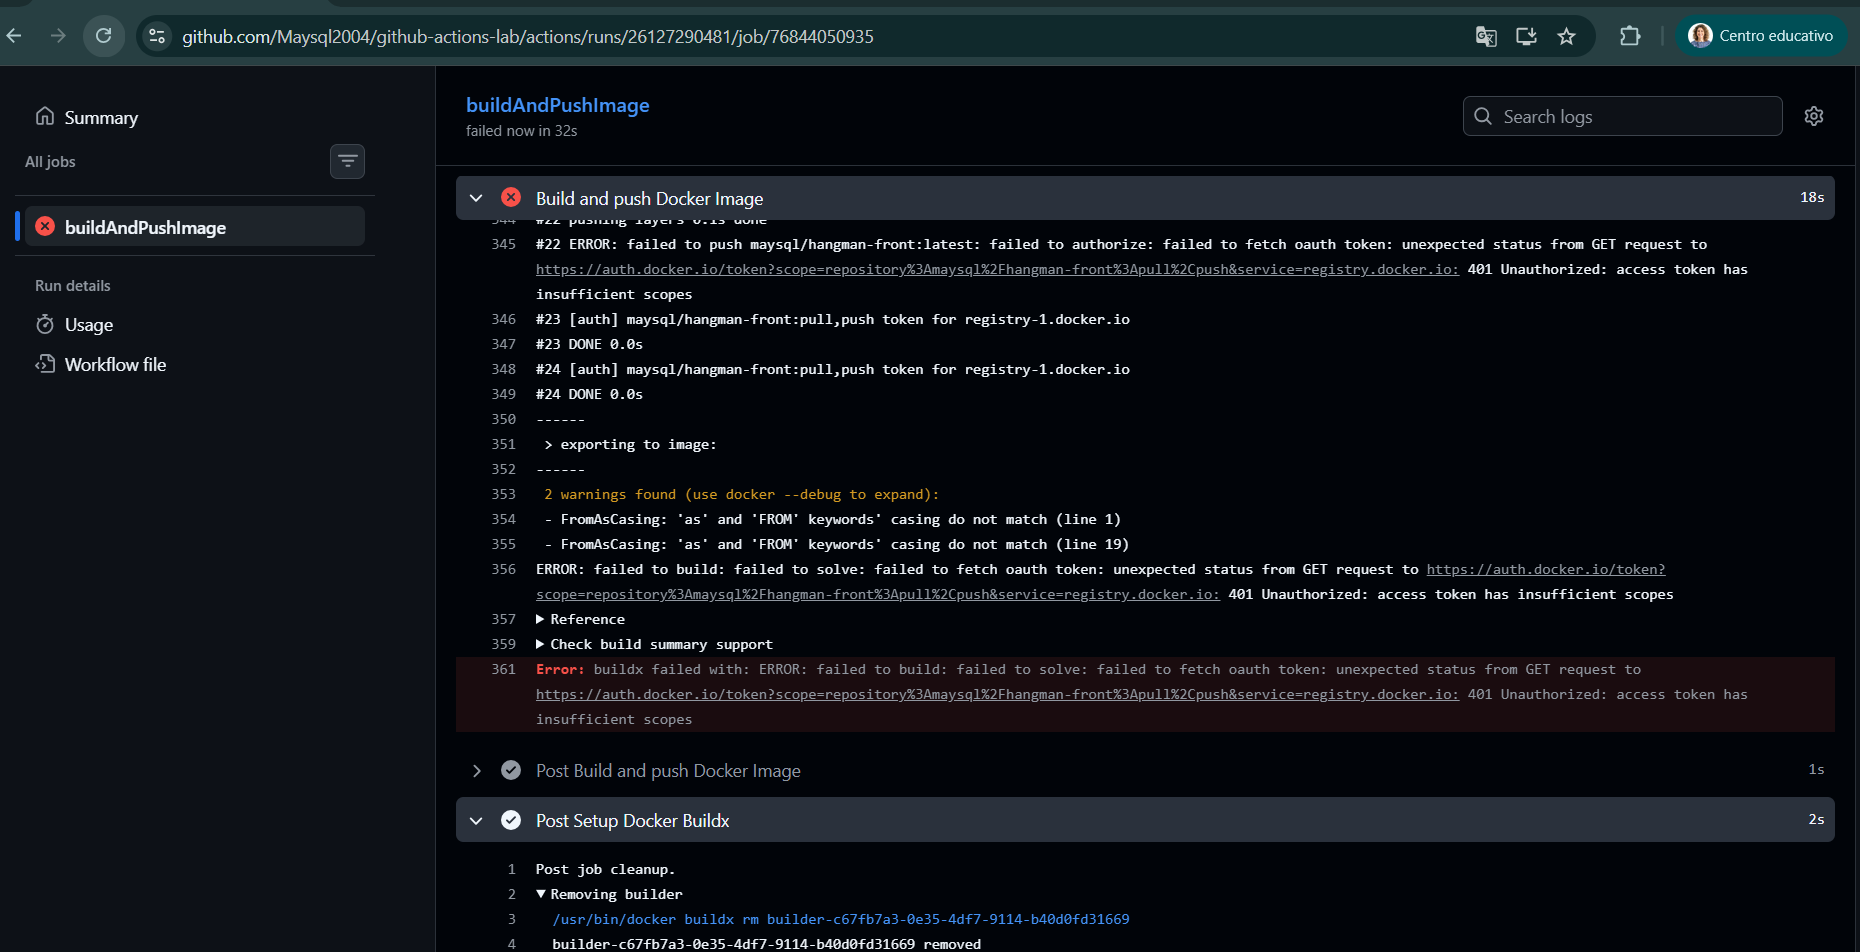
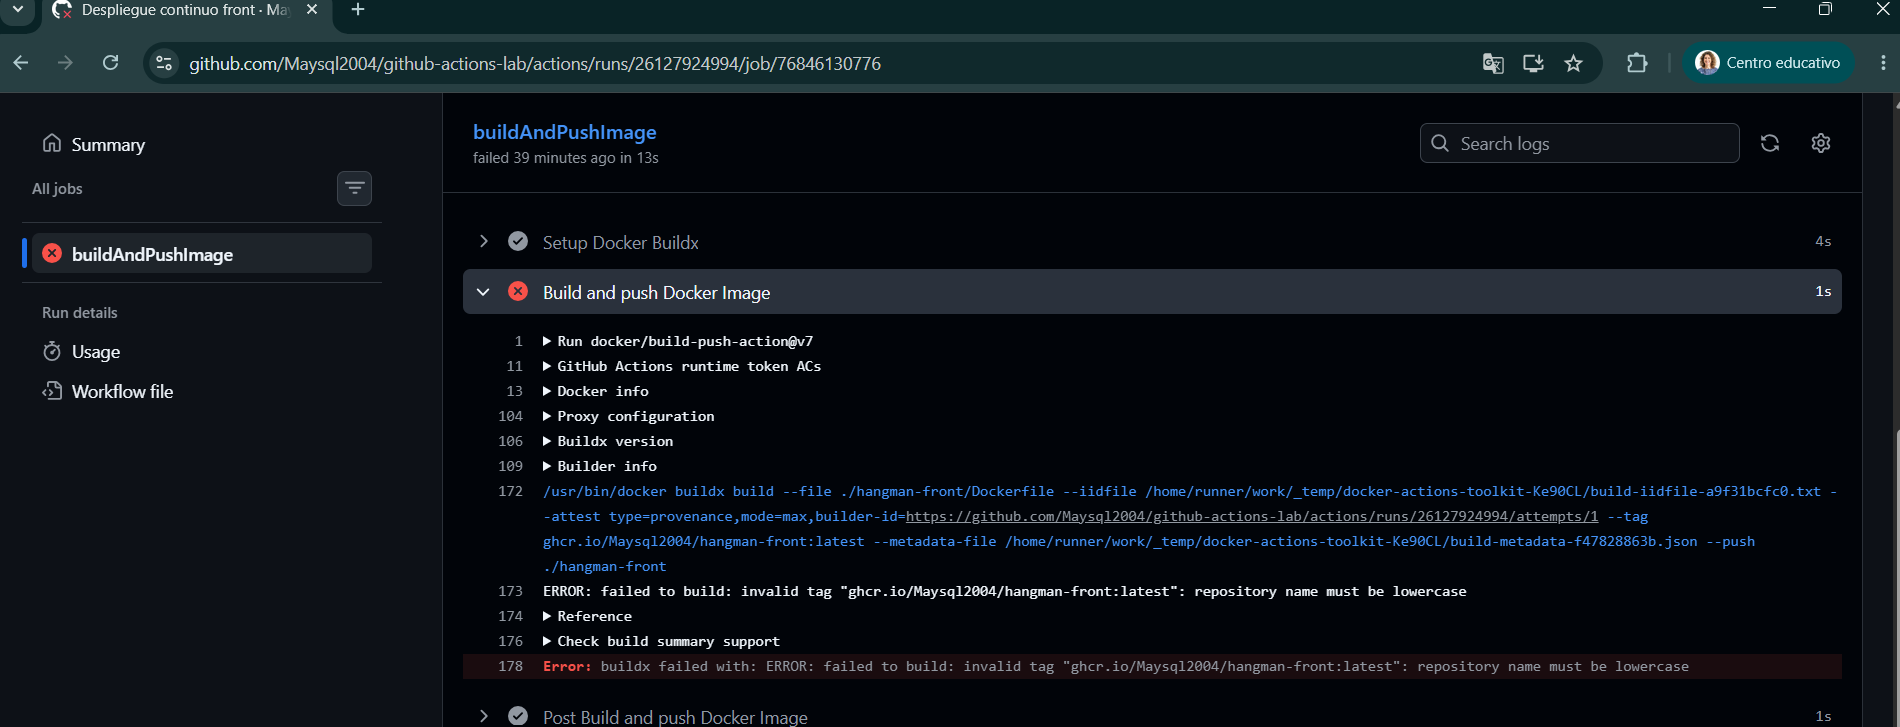
ultimos cambios

diff --git a/README.md b/README.md
@@ -78,6 +78,12 @@ Después de la modimficación en el archivo, de nuevo hago el push y esta vez el
 
 ## 2. Workflow CD para el proyecto de frontend
 
+El workflow de este apartado está en el fichero cd-front.yaml. Tal y como podemos ver definido en on, no hay ningún evento que dispare el workflow, sino que se dispara manualmente.
+
+Ahora toca realizar un workflow de Continuous delivery que va a crear una imagen de Docker a partir del Dockerfile de la carpeta ./hangman-front, y además la tendremos publicada en el Github Container Registry (ghcr.io).
+
+1º Parte, crear el archivo .github/workflows/cd-frontend.yaml, con el contenido:
+
 ```
 name: Despliegue continuo front
 
@@ -98,3 +104,60 @@ jobs:
           username: ${{ github.actor }}
           password: ${{ secrets.GITHUB_TOKEN }}
 ```
+Como resultado obtengo
+
+![cd-front1](./imagenes/cd-front1.png)
+
+![cd-front2](./imagenes/cd-front2.png)
+
+Con la palabra reservada workflow_dispatch es la que le dice al workflow que se ejecute de forma manual, es decir, en la pestaña de Actions del proyecto de Github debemos darle al botón para lanzar el workflow.
+
+
+Algunos de los pasos (steps) del job son iguales que en el workflow de CI, como el checkout para llevar el código de la aplicación a la máquina virtual de Github donde se ejecutarán las acciones del workflow. Usamos otra action de Github para autenticarnos a ghcr.io, y otra para crear la imagen de docker y subirla a ghcr.io.
+
+2ª Parte, añadimos al archivo .github/workflows/cd-frontend.yaml el siguiente contenido:
+
+```
+- name: Setup Docker Buildx
+        uses: docker/setup-buildx-action@v4
+      - name: Build and push Docker Image
+        uses: docker/build-push-action@v7
+        with:
+          context: ./hangman-front
+          push: true
+          tags: ghcr.io/maysql2004/hangman-front:latest
+          file: ./hangman-front/Dockerfile
+```
+Analizando el workflow, este job se ejecuta en Ubuntu para contruir una imagen Docker y subirla a GitHub Container Registry (GHCR).
+
+Pasos del proceso
+- Clonar: Descarga el código del repositorio.
+- Autenticar: Inicia sesión en ghcr.io con un token automático de GitHub.
+- Configurar: Activa Docker Buildx para optimizar la compilación y la caché.
+- Publicar: Construye la imagen Docker y la sube al registro.
+
+Acciones utilizadas
+- actions/checkout: Clona el repositorio.- docker/login-action: Gestiona el login en ghcr.
+- docker/setup-buildx-action: Configura las funciones avanzadas de Buildx.
+- docker/build-push-action: Compila y publica la imagen.
+
+**Problemas con los que me he encontrado**
+
+1º Intentaba utilizar las credenciales para el login del container registry de GitHub con tag Maysql2004/hangman-front:latest y resulta que no puedo usar la maúscula de mi nombre de usuario.
+
+ ![cd-front3-error](./imagenes/cd-front3-error.png)
+
+2º El siguiente error se produjo por una cuestión de permisos, la instalación no tiene permitida la creación de paquetes.
+
+![cd-front4-error](./imagenes/cd-front4-error.png)
+
+La solución está en ir a los Settings del repositorio de GitHub e indicándole que se le permite a los workflows su lectura y escritura:
+- Settings-->Actions-->General
+
+**Modificación de los Settings del repositorio**
+
+![cd-front4-sol](./imagenes/cd-front4-sol.png)
+
+Con ello, ya podremos ver la imagen publicada en los packages de mi repositorio
+
+![cd-front-final](./imagenes/cd-front-final.png)